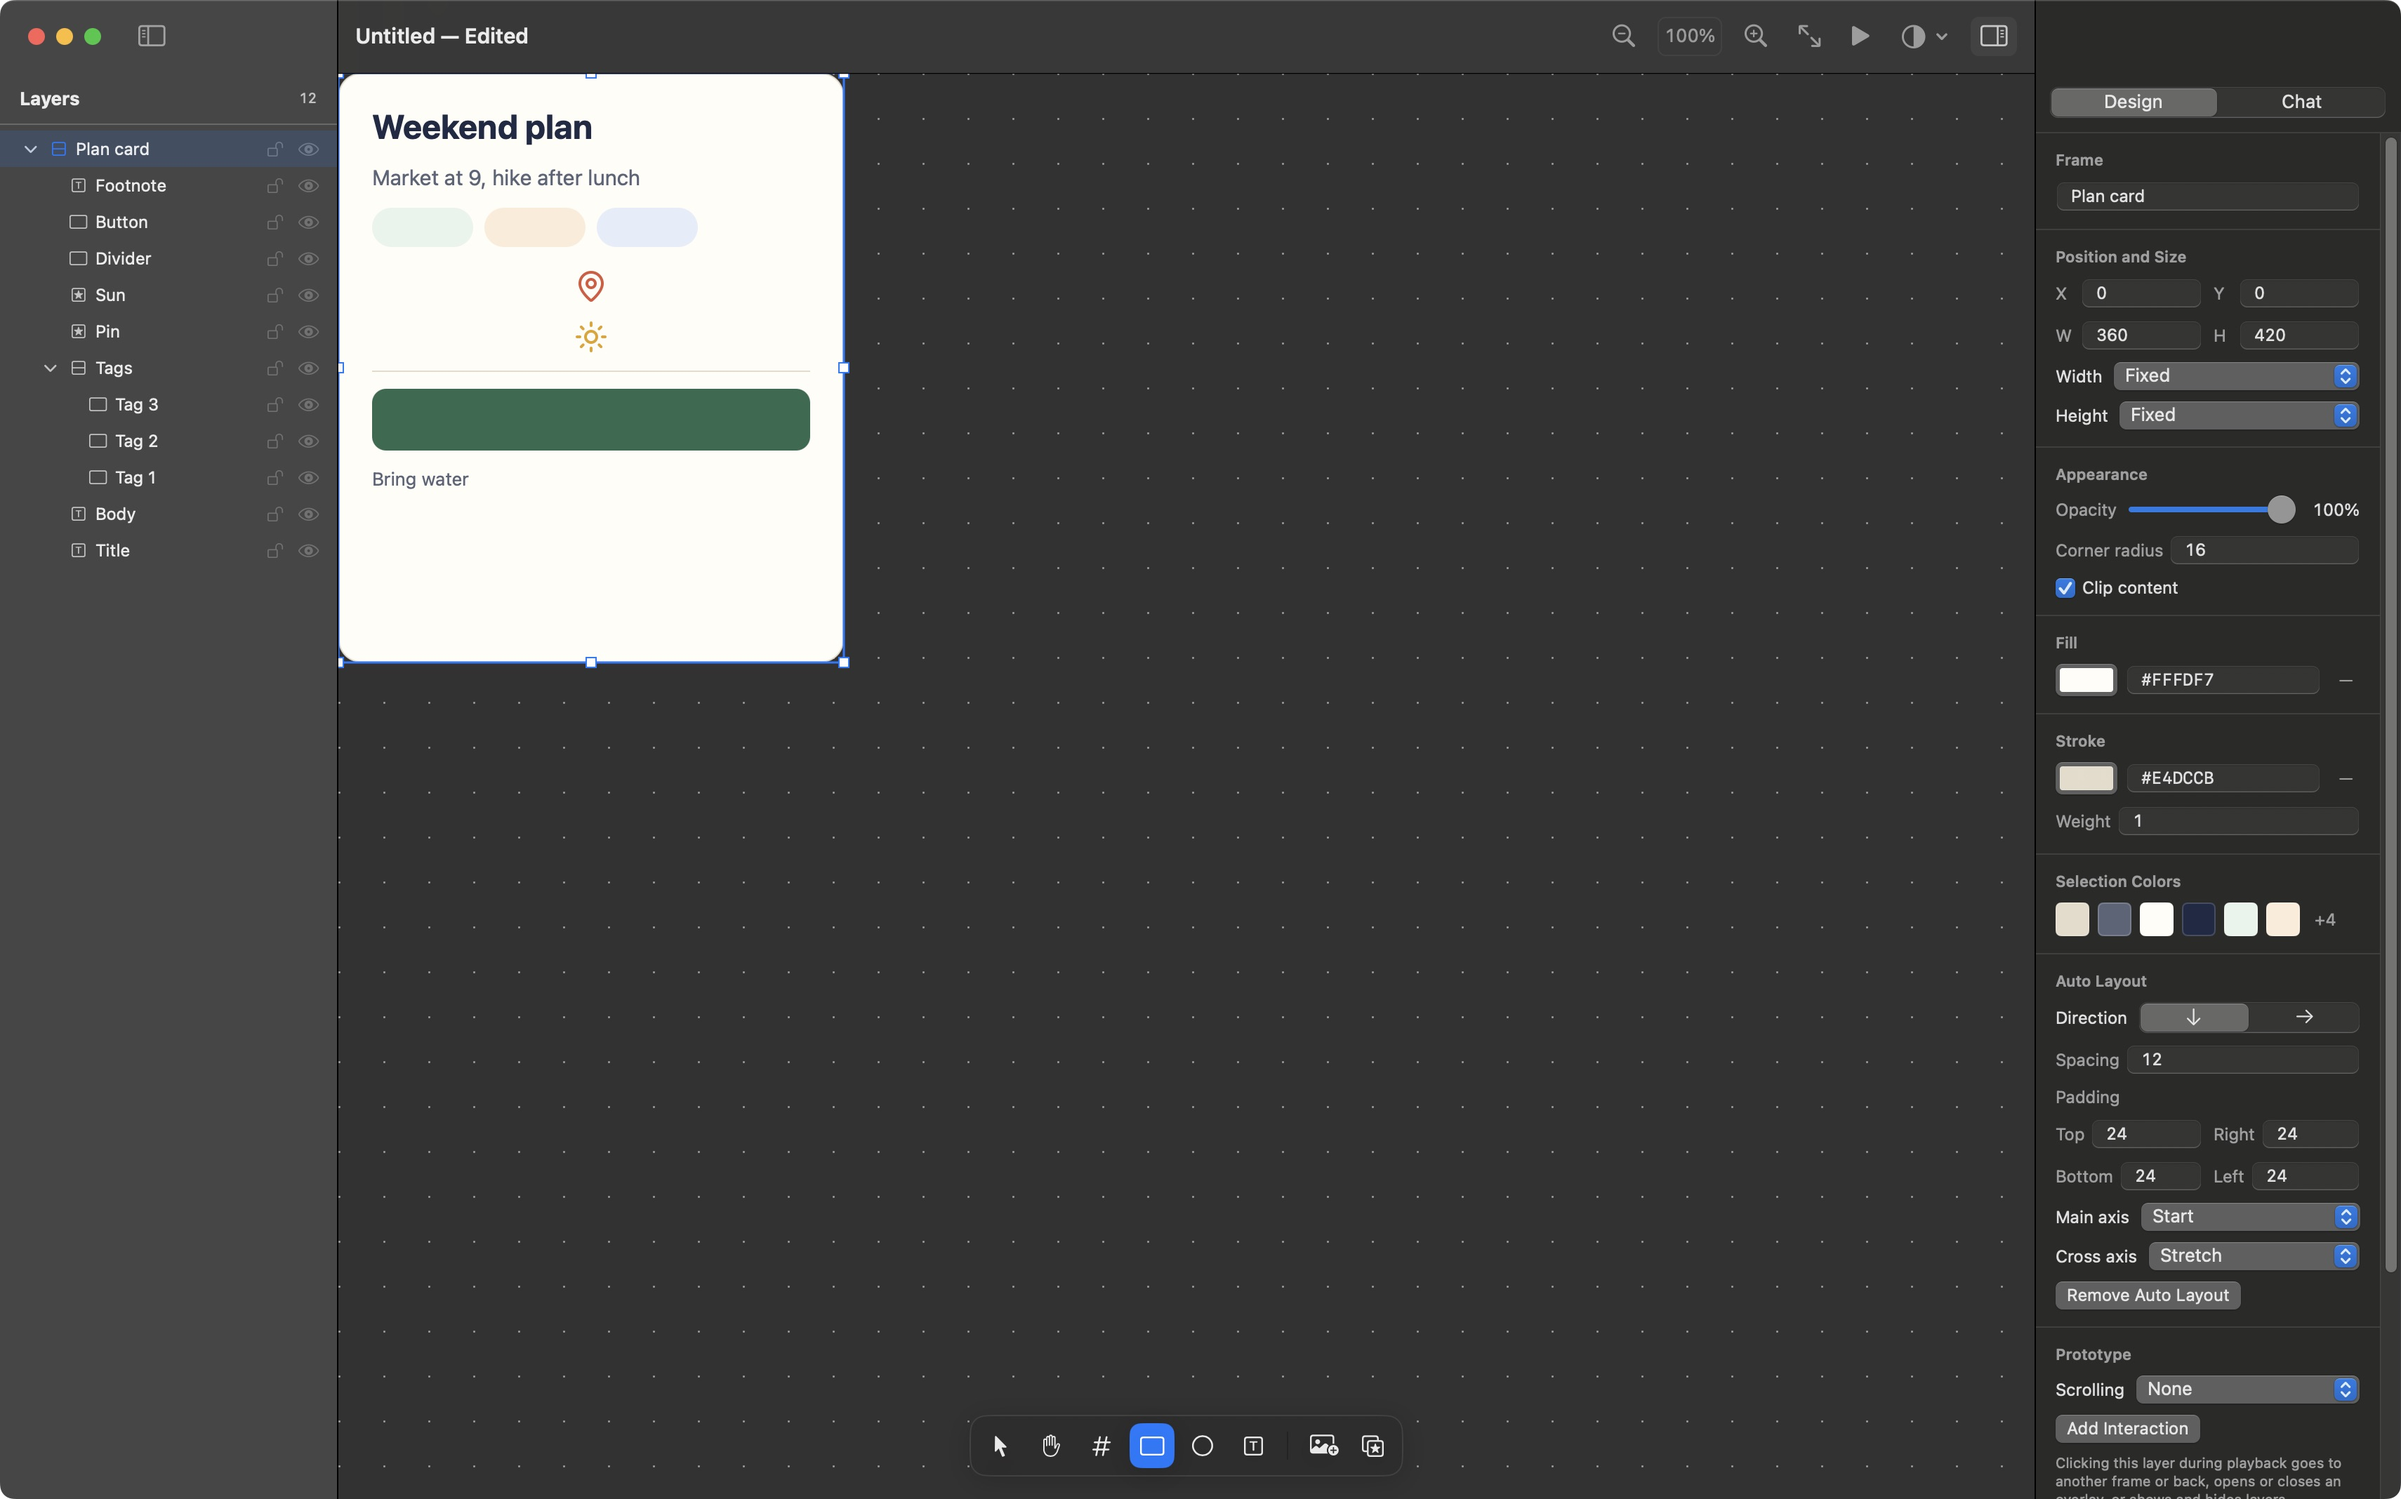
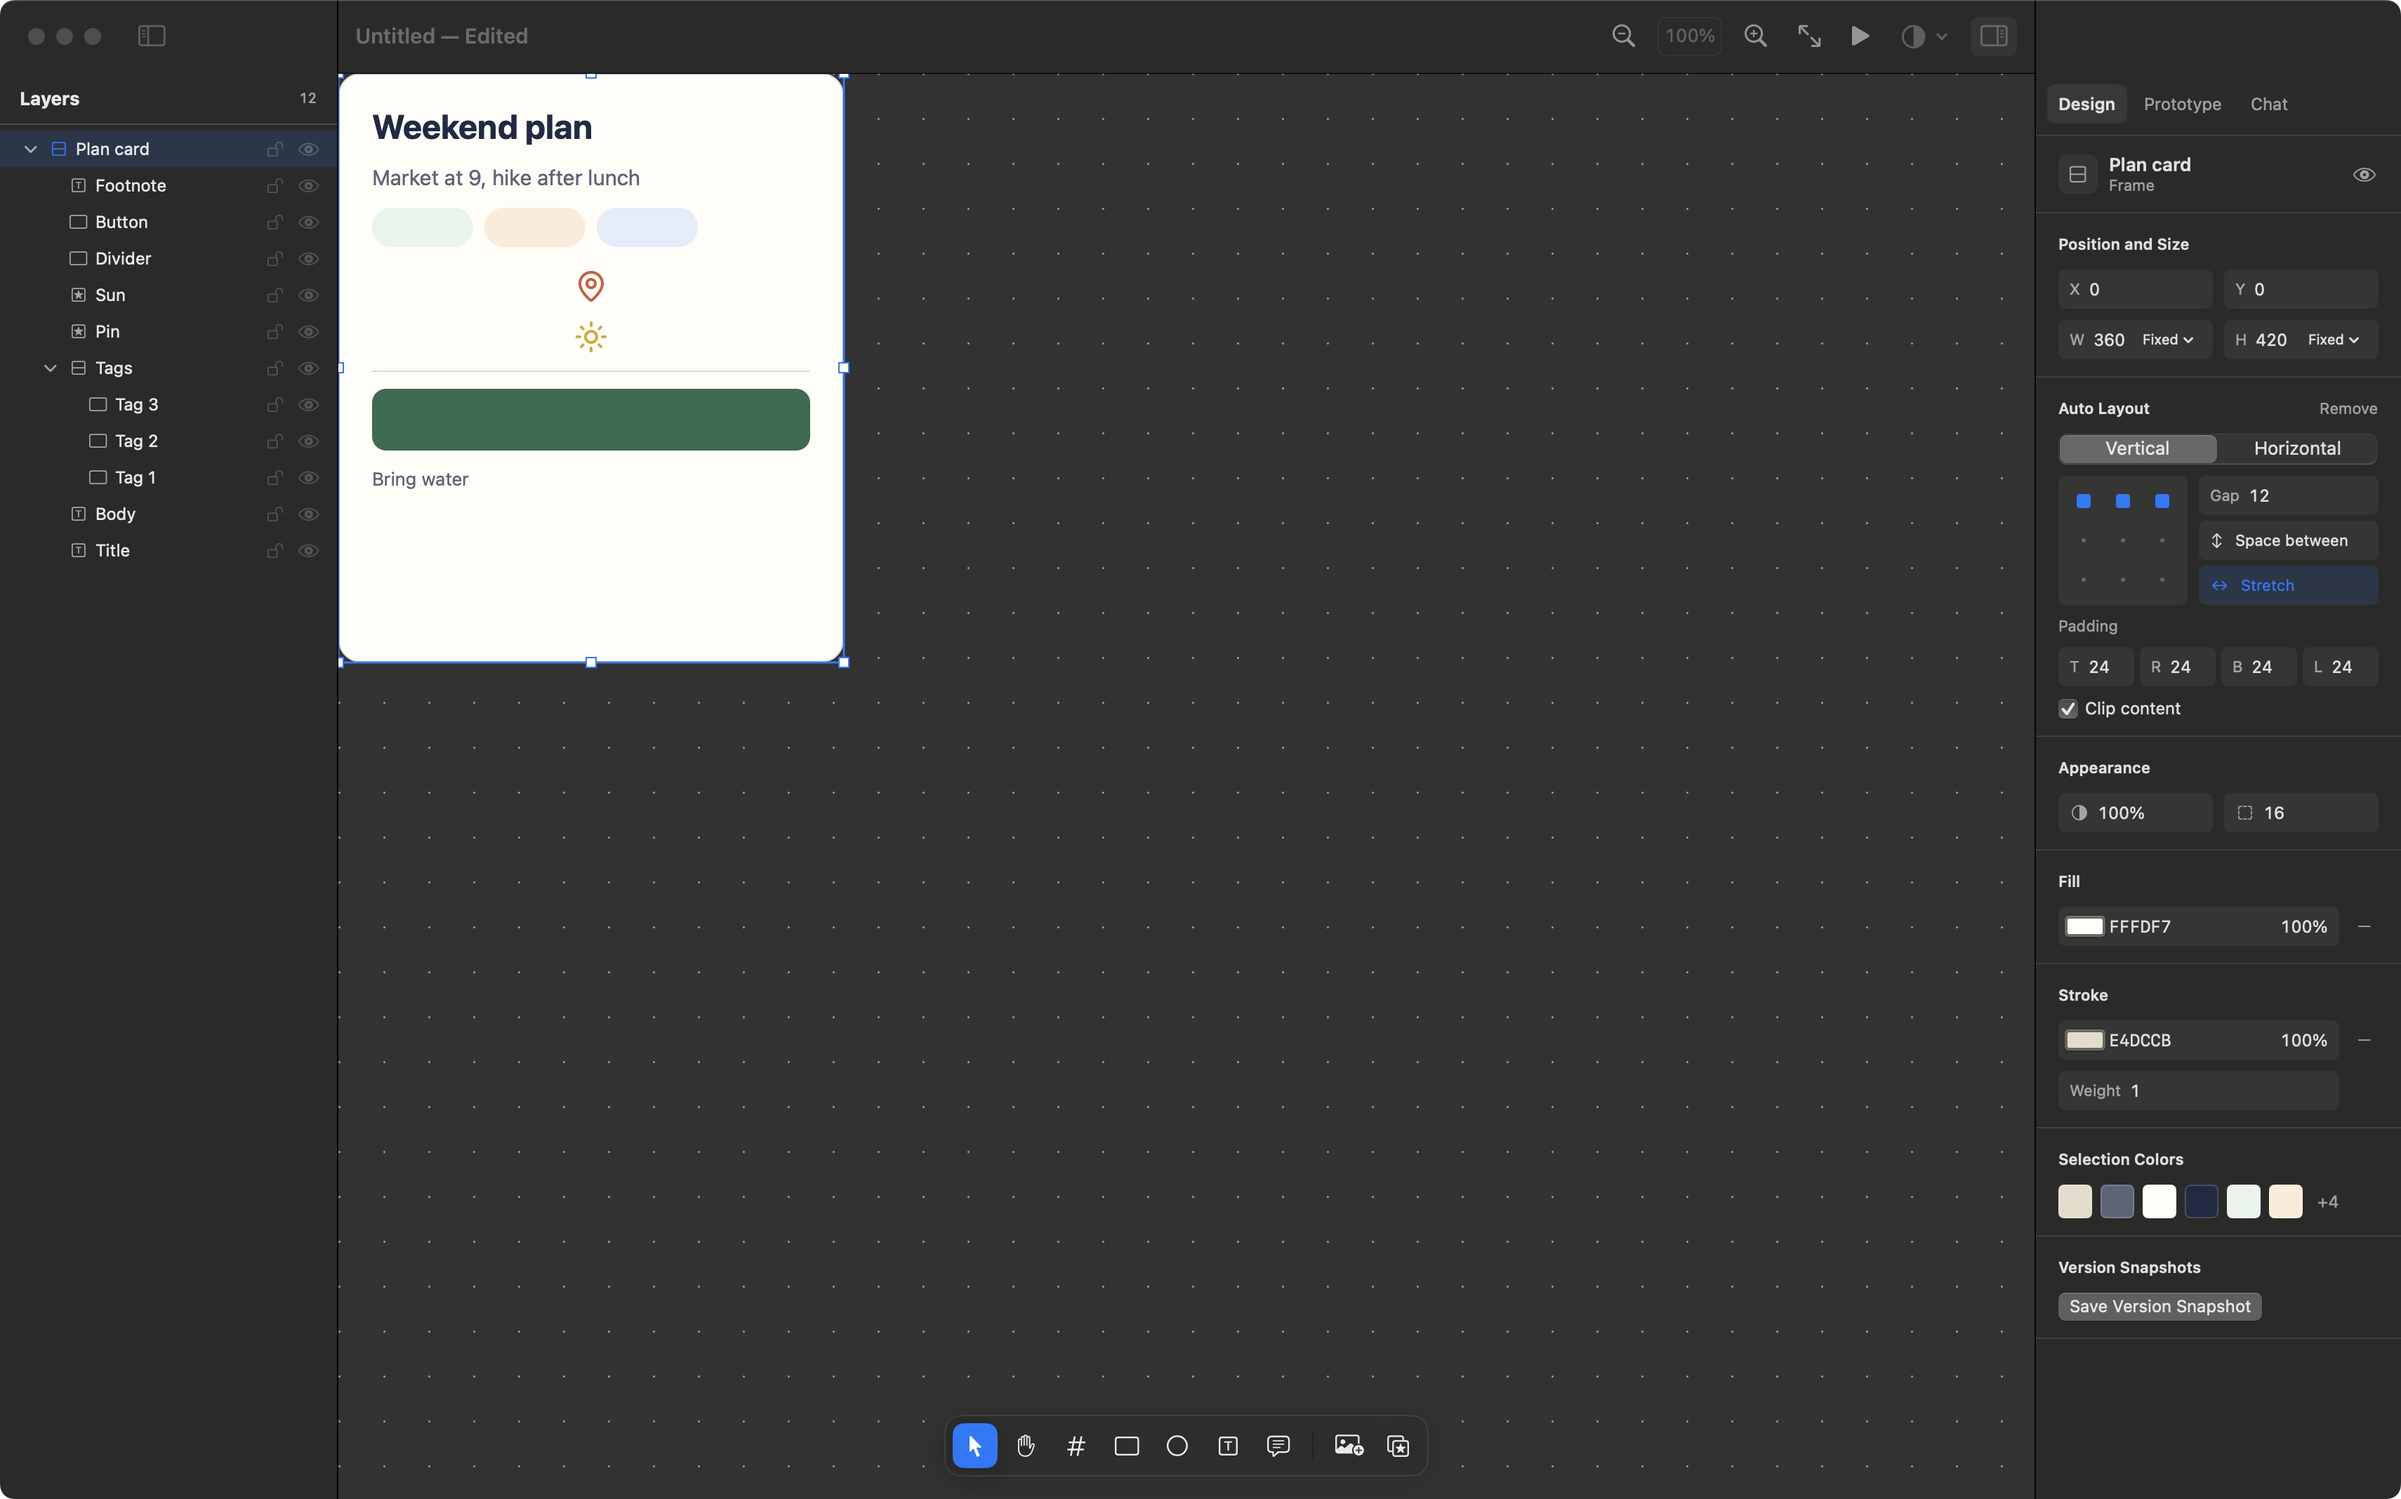
test(inspector): 合并后补回选区颜色工具测试的结尾并更新截图

diff --git a/tests/control-tools.test.ts b/tests/control-tools.test.ts
@@ -141,6 +141,8 @@ describe('design tools', () => {
       { command: 'list_colors', args: { ids: ['f'] } },
       { command: 'replace_color', args: { from: '#FF0000', to: '#00FF00' } },
       { command: 'replace_color', args: { from: '#FF0000', to: '#00FF00', ids: ['a', 'b'] } },
+    ])
+  })
 
   it('reads and writes annotations through the App', async () => {
     const byName = (name: string) => (tools as { name: string, description: string, inputSchema: any }[]).find(tool => tool.name === name)!
